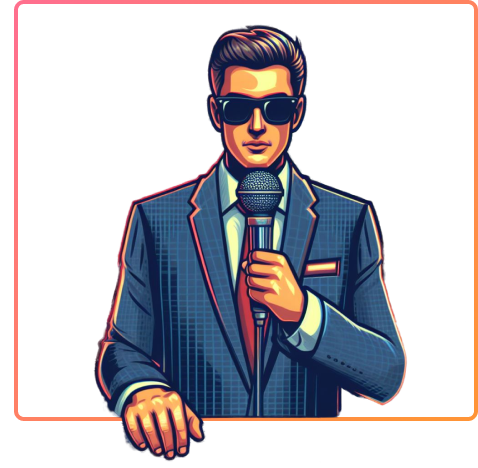
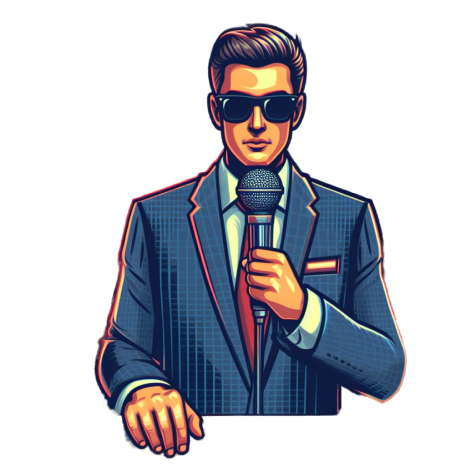
add men img for each questions

Changed region(s): [[0.03, 0.0, 1.0, 0.9914]]

diff --git a/Frontend/app/routes/game.jsx b/Frontend/app/routes/game.jsx
@@ -5,6 +5,8 @@ import Question from "../components/question";
 import { useEffect, useRef, useState } from "react";
 import PlayButton from "../components/PlayButton";
 import { Button } from "@nextui-org/button";
+import { useNavigate } from "@remix-run/react";
+import { StatusCodes } from "http-status-codes";
 
 export const links = () => [
   { rel: "stylesheet", href: gameStyle },
@@ -12,6 +14,12 @@ export const links = () => [
 ];
 
 let questionsForBack = [];
+const IMG_LINK = [
+  { src: "image/Men.png", alt: "Men", class: "img-men" },
+  { src: "image/Question1.png", class: "img-question-1" },
+  { src: "image/Question2.png", class: "img-question-2" },
+  { src: "image/Question3.png", class: "img-question-3" },
+];
 const Game = () => {
   const sheetRef = useRef(null);
   const [isGameRunning, setIsGameRunning] = useState(false);
@@ -19,6 +27,20 @@ const Game = () => {
     questionText: "Are you ready for the super Duo Finance?",
   });
   const [questions, setQuestions] = useState([]);
+  const [questionCounter, setQuestionCounter] = useState(0);
+  const navigate = useNavigate();
+
+  useEffect(() => {
+    fetch("http://localhost:8080/api/login", {
+      method: "Get",
+      credentials: "include",
+    }).then((res) => {
+      console.log(" status", res.status);
+      if (res.status !== StatusCodes.OK) {
+        navigate("/login");
+      }
+    });
+  }, []);
 
   const fetchQuestions = async () => {
     try {
@@ -46,6 +68,7 @@ const Game = () => {
 
     questionsForBack = [...questionsForBack, questionToSend];
     setCurrentQuestion(questions.pop());
+    setQuestionCounter(questionCounter + 1);
 
     if (questions.length == 0) {
       //send to backend
@@ -58,6 +81,7 @@ const Game = () => {
   const sendValidationToBackEnd = async () => {
     //fetch
     try {
+      setQuestionCounter(0);
       const res = await fetch("http://localhost:8080/api/submit", {
         method: "POST",
         credentials: "include",
@@ -82,6 +106,7 @@ const Game = () => {
 
   const handleStartGame = async () => {
     //load questions
+    setQuestionCounter(questionCounter + 1);
     const data = await fetchQuestions();
     setCurrentQuestion(data[0]);
     setQuestions(data);
@@ -114,7 +139,7 @@ const Game = () => {
                   "Question"
                 ) : (
                   <>
-                    {`Question ${questionsForBack.length + 1}`}
+                    {`Question ${questionCounter}`}
                     <span className="noto text-[20px]">/3</span>
                   </>
                 )}
@@ -158,7 +183,14 @@ const Game = () => {
               )}
             </div>
           </div>
-          <img className="ml-[30px] h-[468px]" src="/image/Men.png"></img>
+          <div className="border-show-men">
+            <div className="bg-show-man">
+              <img
+                className={`absolute ${IMG_LINK[questionCounter].class}`}
+                src={`${IMG_LINK[questionCounter].src}`}
+              ></img>
+            </div>
+          </div>
         </div>
       </section>
       <div ref={sheetRef} className="sheet collapsed">

diff --git a/Frontend/app/styles/game.css b/Frontend/app/styles/game.css
@@ -179,7 +179,7 @@
 }
 
 .sheet {
-  @apply absolute bottom-0 right-0 h-[100vh] w-[600px] bg-gradient-to-b from-primary to-primary;
+  @apply absolute bottom-0 right-0 h-[100vh] w-[600px] bg-gradient-to-b from-primary to-secondary;
 
   /* overflow */
   @apply overflow-x-hidden;
@@ -197,4 +197,52 @@
 
   /* border */
   @apply border-l-[2px] border-solid border-white;
+}
+
+.border-show-men {
+  @apply h-[421px] w-[464px] p-[3px] ml-[40px];
+
+  /* bg */
+  @apply bg-gradient-to-br from-secondary to-accent;
+
+  /* border */
+  @apply rounded-[10px];
+
+  /* display */
+  @apply flex justify-center items-center;
+}
+
+.bg-show-man {
+  @apply relative;
+
+  background: linear-gradient(
+    180deg,
+    rgba(0, 0, 0, 1) 0%,
+    rgb(36, 35, 35) 100%
+  );
+
+  @apply h-[415px] w-[460px];
+
+  /* border */
+  @apply rounded-[8px];
+}
+
+.img-men {
+  left: -30px;
+  top: 6px;
+}
+
+.img-question-1 {
+  left: 50px;
+  top: 28px;
+}
+
+.img-question-2 {
+  left: -30px;
+  top: 40px;
+}
+
+.img-question-3 {
+  left: 2px;
+  top: 37px;
 }
